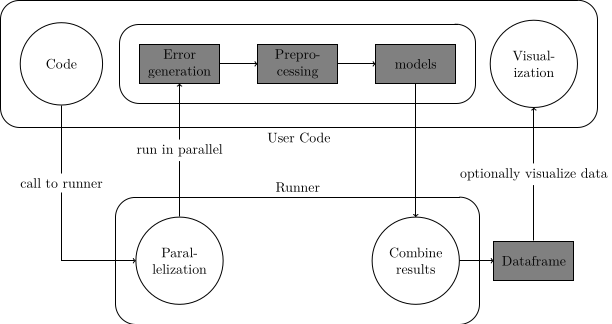
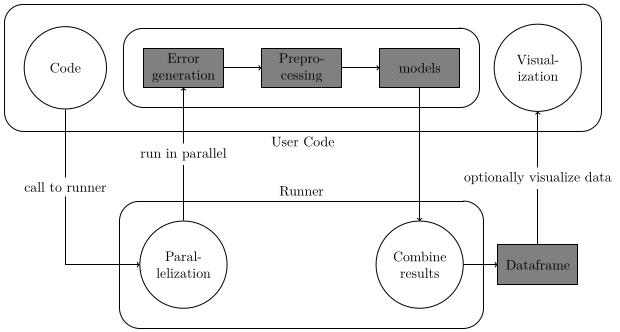
Add border around pipeline graph

diff --git a/docs/newest_pipeline_graph.tex b/docs/newest_pipeline_graph.tex
@@ -1,4 +1,4 @@
-\documentclass[tikz]{standalone}
+\documentclass[tikz, margin=0.1cm]{standalone}
 \usetikzlibrary{fit}
 \usetikzlibrary{arrows}
 
@@ -9,7 +9,7 @@
 	\node[file, right of=code, xshift=2cm] (errgen) {Error generation}; %
 	\node[state, below of=errgen, yshift=-4cm] (paral) {Parallelization}; %
 	\node[file, right of=errgen, xshift=2cm] (preproc) {Preprocessing}; %
-	\node[file, right of=preproc, xshift=2cm] (model) {model}; %
+	\node[file, right of=preproc, xshift=2cm] (model) {models}; %
 	\node[state, below of=model, yshift=-4cm] (combine) {Combine results}; %
 	\node[file, right of=combine, xshift=2cm] (data) {Dataframe}; %
 	\node[state, right of=model, xshift=2cm] (visual) {Visualization}; %
